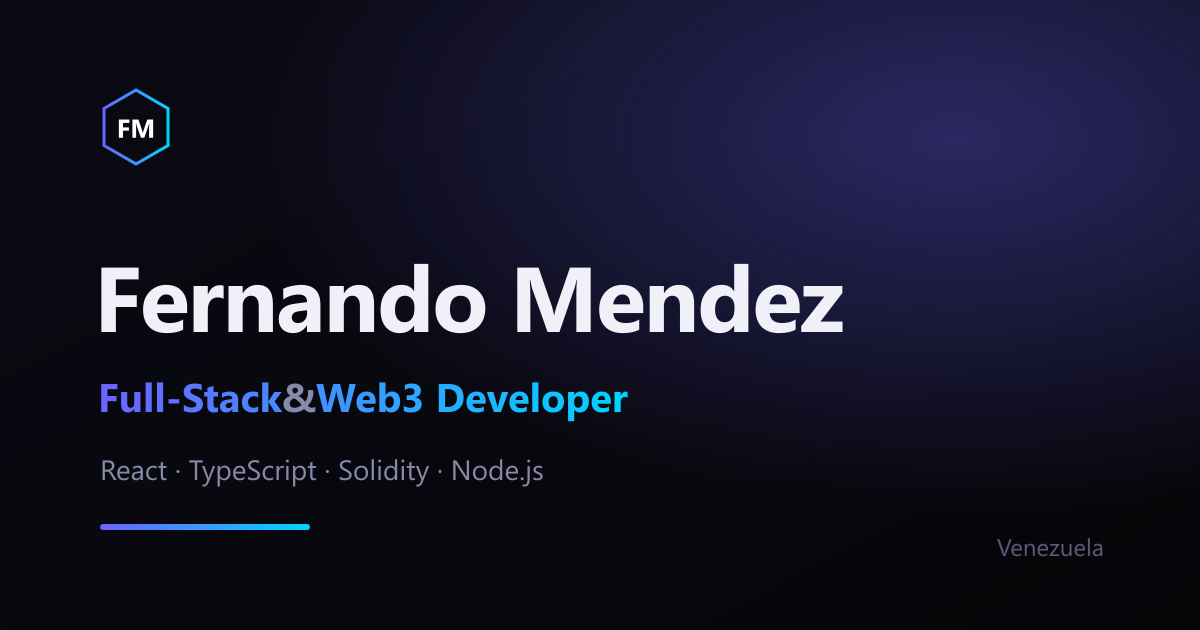
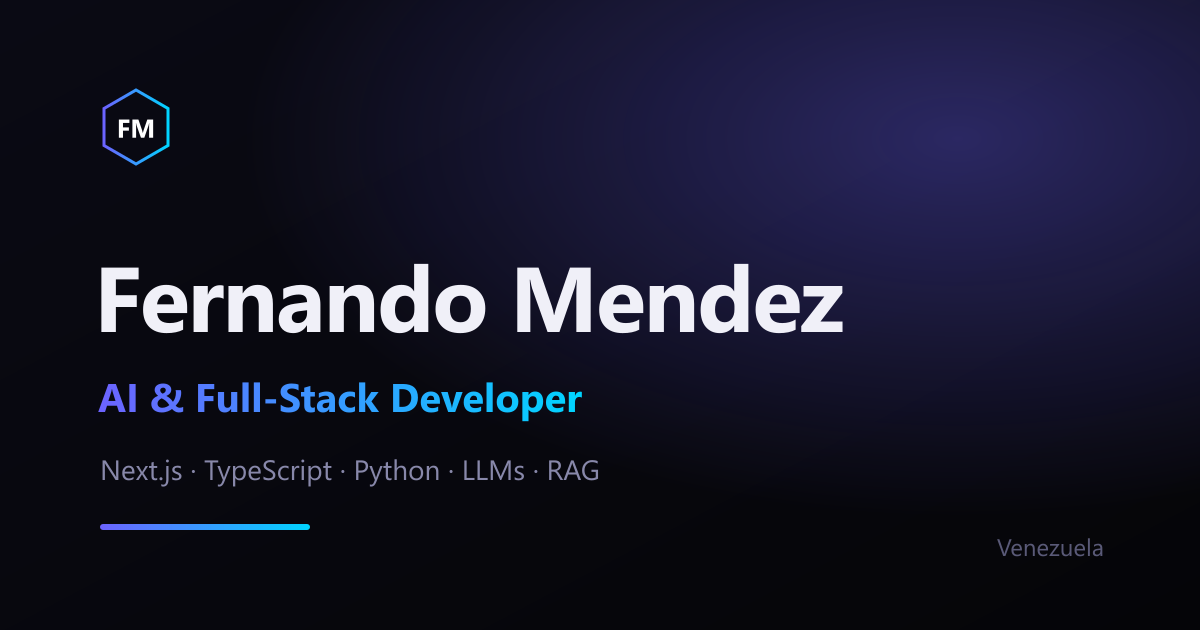
Reposition portfolio around AI & automation
Lead with AI/LLM work over Web3 to match current focus: rewrite hero, about, and skills (AI & LLM Apps now first, Web3 de-emphasized); replace projects with FPY Academy (RAG LMS), ContentFlow (AI pipeline), Collab Map, and STRATA; refresh SEO/OG/Twitter/JSON-LD metadata and the social card; fill the real LinkedIn handle (wf-mendez); extend BYU graduation to Dec 2027; bump stats.

Changed region(s): [[0.0617, 0.6032, 0.5242, 0.6635], [0.0925, 0.7238, 0.4933, 0.7841]]

diff --git a/index.html b/index.html
@@ -5,10 +5,10 @@
   <meta name="viewport" content="width=device-width, initial-scale=1.0" />
 
   <!-- Primary meta -->
-  <title>Fernando Mendez — Full Stack &amp; Web3 Developer</title>
-  <meta name="description" content="Fernando Mendez — Full Stack Developer building modern web apps and decentralized applications with React, TypeScript, and Solidity. Based in Venezuela." />
+  <title>Fernando Mendez — AI &amp; Full-Stack Developer</title>
+  <meta name="description" content="Fernando Mendez — Full-Stack Developer building AI-powered apps: LLM chatbots, RAG systems, and automation pipelines with Next.js, TypeScript, and Python. Based in Venezuela." />
   <meta name="author" content="Fernando Mendez" />
-  <meta name="keywords" content="Fernando Mendez, Full Stack Developer, Web3 Developer, React, TypeScript, Solidity, Blockchain, Ethereum, Polygon, Node.js, Venezuela" />
+  <meta name="keywords" content="Fernando Mendez, AI Developer, Full Stack Developer, LLM, RAG, Chatbots, AI Agents, Automation, n8n, Next.js, TypeScript, Python, React, Node.js, Venezuela" />
   <!-- TODO: replace your-domain.com with your real domain -->
   <link rel="canonical" href="https://your-domain.com/" />
   <meta name="theme-color" content="#050508" />
@@ -17,19 +17,19 @@
   <!-- Open Graph (Facebook, LinkedIn, WhatsApp) -->
   <meta property="og:type" content="website" />
   <meta property="og:site_name" content="Fernando Mendez" />
-  <meta property="og:title" content="Fernando Mendez — Full Stack &amp; Web3 Developer" />
-  <meta property="og:description" content="Building modern web apps and decentralized applications with React, TypeScript, and Solidity." />
+  <meta property="og:title" content="Fernando Mendez — AI &amp; Full-Stack Developer" />
+  <meta property="og:description" content="Building AI-powered apps — LLM chatbots, RAG systems, and automation pipelines with Next.js, TypeScript &amp; Python." />
   <meta property="og:url" content="https://your-domain.com/" />
   <meta property="og:image" content="https://your-domain.com/assets/og-image.png" />
   <meta property="og:image:width" content="1200" />
   <meta property="og:image:height" content="630" />
-  <meta property="og:image:alt" content="Fernando Mendez — Full-Stack &amp; Web3 Developer" />
+  <meta property="og:image:alt" content="Fernando Mendez — AI &amp; Full-Stack Developer" />
   <meta property="og:locale" content="en_US" />
 
   <!-- Twitter / X -->
   <meta name="twitter:card" content="summary_large_image" />
-  <meta name="twitter:title" content="Fernando Mendez — Full Stack &amp; Web3 Developer" />
-  <meta name="twitter:description" content="Building modern web apps and decentralized applications with React, TypeScript, and Solidity." />
+  <meta name="twitter:title" content="Fernando Mendez — AI &amp; Full-Stack Developer" />
+  <meta name="twitter:description" content="Building AI-powered apps — LLM chatbots, RAG systems, and automation pipelines with Next.js, TypeScript &amp; Python." />
   <meta name="twitter:image" content="https://your-domain.com/assets/og-image.png" />
 
   <!-- Icons -->
@@ -49,7 +49,7 @@
     "@context": "https://schema.org",
     "@type": "Person",
     "name": "Fernando Mendez",
-    "jobTitle": "Full Stack & Web3 Developer",
+    "jobTitle": "AI & Full-Stack Developer",
     "url": "https://your-domain.com/",
     "image": "https://your-domain.com/assets/og-image.png",
     "email": "mailto:wuillian.f.mendez@gmail.com",
@@ -61,10 +61,10 @@
       "@type": "CollegeOrUniversity",
       "name": "Brigham Young University–Idaho"
     },
-    "knowsAbout": ["React", "TypeScript", "Solidity", "Web3", "Node.js", "Smart Contracts", "Ethereum", "Polygon"],
+    "knowsAbout": ["Artificial Intelligence", "Large Language Models", "RAG", "Chatbots", "AI Agents", "Automation", "Next.js", "TypeScript", "React", "Node.js", "Python", "Web3"],
     "sameAs": [
       "https://github.com/wfmendez",
-      "https://www.linkedin.com/in/your-linkedin"
+      "https://www.linkedin.com/in/wf-mendez"
     ]
   }
   </script>
@@ -141,12 +141,12 @@
       <h1 class="hero-title">
         <span class="title-line" data-text="Fernando">Fernando</span>
         <span class="title-line gradient-text" data-text="Mendez">Mendez</span>
-        <span class="title-line" data-text="— Builds the Web.">— Builds the Web.</span>
+        <span class="title-line" data-text="— Builds with AI.">— Builds with AI.</span>
       </h1>
       <p class="hero-subtitle">
-        Full-Stack Developer specialised in <em>React, TypeScript &amp; Web3</em> —
-        crafting modern web apps and decentralised applications from
-        Venezuela.
+        Full-Stack Developer specialised in <em>AI-powered apps</em> —
+        building LLM chatbots, RAG systems &amp; automation pipelines with
+        React, TypeScript &amp; Next.js, from Venezuela.
       </p>
       <div class="hero-actions">
         <a href="#projects" class="btn btn-primary magnetic">
@@ -160,9 +160,9 @@
       <div class="hero-stats">
         <div class="stat"><span class="stat-num" data-target="4">0</span><span class="stat-label">Years Building Web</span></div>
         <div class="stat-divider"></div>
-        <div class="stat"><span class="stat-num" data-target="3">0</span><span class="stat-label">Web3 dApps Shipped</span></div>
+        <div class="stat"><span class="stat-num" data-target="4">0</span><span class="stat-label">AI Apps Shipped</span></div>
         <div class="stat-divider"></div>
-        <div class="stat"><span class="stat-num" data-target="7">0</span><span class="stat-label">Certifications Earned</span></div>
+        <div class="stat"><span class="stat-num" data-target="12">0</span><span class="stat-label">Certifications Earned</span></div>
       </div>
     </div>
     <div class="hero-scroll-indicator">
@@ -180,25 +180,27 @@
             <div class="about-image-placeholder">
               <canvas id="about-canvas"></canvas>
             </div>
-            <div class="about-tag tag-1">React + TypeScript</div>
-            <div class="about-tag tag-2">Solidity / Web3</div>
-            <div class="about-tag tag-3">Node.js</div>
+            <div class="about-tag tag-1">AI · RAG · LLMs</div>
+            <div class="about-tag tag-2">Next.js + TypeScript</div>
+            <div class="about-tag tag-3">Python · Automation</div>
           </div>
         </div>
         <div class="about-text">
           <span class="section-label reveal-up">About Me</span>
           <h2 class="section-title reveal-up">
-            From idea to <span class="gradient-text">on-chain reality</span>
+            From idea to <span class="gradient-text">AI-powered products</span>
           </h2>
           <p class="about-body reveal-up">
             I'm a Full-Stack Developer pursuing a Bachelor of Software Development at
-            BYU-Idaho, with three years of freelance experience translating Figma designs
-            into clean, performant React and TypeScript code.
+            BYU-Idaho. I build production AI applications — LLM-powered chatbots, RAG
+            systems, and content pipelines — turning models like Llama 3.3 and Claude
+            into products people actually use.
           </p>
           <p class="about-body reveal-up">
-            Lately I've been deep in Web3 — building decentralised applications on
-            Ethereum and Polygon with Solidity, Hardhat, Wagmi and Ethers.js. I love
-            turning blockchain complexity into experiences anyone can use.
+            I also architect automation ecosystems — n8n, custom AI agents, and API
+            integrations that replace manual ops with self-running infrastructure. My
+            stack centers on Next.js, TypeScript and Python, backed by PostgreSQL and
+            Supabase — and yes, I've shipped on-chain too.
           </p>
           <div class="about-signature reveal-up">
             <svg viewBox="0 0 160 50" fill="none" class="signature-svg">
@@ -230,26 +232,26 @@
           <div class="skill-icon">
             <svg viewBox="0 0 40 40" fill="none"><circle cx="20" cy="20" r="18" stroke="#6C63FF" stroke-width="1.5"/><path d="M13 14l-5 6 5 6M27 14l5 6-5 6M22 12l-4 16" stroke="white" stroke-width="1.8" stroke-linecap="round"/></svg>
           </div>
-          <h3>Frontend</h3>
-          <p>React, TypeScript, Vite, HTML5, CSS3, Figma-to-code</p>
-          <div class="skill-bar"><div class="skill-fill" data-width="92"></div></div>
+          <h3>AI &amp; LLM Apps</h3>
+          <p>RAG, chatbots, prompt engineering · Llama 3.3, Claude, Gemini, Groq, Vercel AI SDK</p>
+          <div class="skill-bar"><div class="skill-fill" data-width="93"></div></div>
         </div>
         <!-- Backend -->
         <div class="skill-card reveal-up" data-delay="100">
           <div class="skill-icon">
             <svg viewBox="0 0 40 40" fill="none"><rect x="4" y="4" width="32" height="32" rx="8" stroke="#00D4FF" stroke-width="1.5"/><path d="M12 16h16M12 20h10M12 24h13" stroke="white" stroke-width="1.8" stroke-linecap="round"/></svg>
           </div>
-          <h3>Backend</h3>
-          <p>Node.js, Express.js, REST APIs, MongoDB, Python</p>
-          <div class="skill-bar"><div class="skill-fill" data-width="85"></div></div>
+          <h3>Frontend</h3>
+          <p>React, Next.js, TypeScript, Vite, Tailwind CSS, Figma-to-code</p>
+          <div class="skill-bar"><div class="skill-fill" data-width="90"></div></div>
         </div>
         <!-- 3D / Creative -->
         <div class="skill-card reveal-up" data-delay="200">
           <div class="skill-icon">
             <svg viewBox="0 0 40 40" fill="none"><polygon points="20,4 36,12 36,28 20,36 4,28 4,12" stroke="#FF6B9D" stroke-width="1.5"/><polygon points="20,12 28,16 28,24 20,28 12,24 12,16" stroke="#FF6B9D" stroke-width="1" opacity="0.5"/></svg>
           </div>
-          <h3>Web3 &amp; Blockchain</h3>
-          <p>Solidity, Hardhat, Ethers.js, Wagmi, Alchemy API</p>
+          <h3>Backend &amp; APIs</h3>
+          <p>Node.js, FastAPI, Express, Prisma, PostgreSQL, Supabase, MongoDB</p>
           <div class="skill-bar"><div class="skill-fill" data-width="88"></div></div>
         </div>
         <!-- DevOps -->
@@ -257,26 +259,26 @@
           <div class="skill-icon">
             <svg viewBox="0 0 40 40" fill="none"><circle cx="20" cy="20" r="10" stroke="#FFB347" stroke-width="1.5"/><path d="M20 4v4M20 32v4M4 20h4M32 20h4" stroke="#FFB347" stroke-width="1.8" stroke-linecap="round"/></svg>
           </div>
-          <h3>Tools &amp; Deploy</h3>
-          <p>Git, GitHub, Render.com, Cloudinary, MongoDB Atlas</p>
-          <div class="skill-bar"><div class="skill-fill" data-width="82"></div></div>
+          <h3>Automation &amp; Integration</h3>
+          <p>n8n, AI agents, REST APIs, Airtable, Celery, webhooks</p>
+          <div class="skill-bar"><div class="skill-fill" data-width="88"></div></div>
         </div>
         <!-- Design -->
         <div class="skill-card reveal-up" data-delay="400">
           <div class="skill-icon">
             <svg viewBox="0 0 40 40" fill="none"><path d="M8 32 Q16 8 20 8 Q24 8 32 32" stroke="#A855F7" stroke-width="1.5" fill="none"/><circle cx="20" cy="20" r="3" fill="#A855F7"/></svg>
           </div>
-          <h3>UI / UX Design</h3>
-          <p>Figma, Wireframing, Prototyping, Responsive design</p>
-          <div class="skill-bar"><div class="skill-fill" data-width="80"></div></div>
+          <h3>Web3 &amp; Blockchain</h3>
+          <p>Solidity, Hardhat, Ethers.js, viem, Wagmi</p>
+          <div class="skill-bar"><div class="skill-fill" data-width="72"></div></div>
         </div>
         <!-- AI -->
         <div class="skill-card reveal-up" data-delay="500">
           <div class="skill-icon">
             <svg viewBox="0 0 40 40" fill="none"><circle cx="20" cy="20" r="6" fill="none" stroke="#00FFB2" stroke-width="1.5"/><path d="M20 4L20 14M20 26L20 36M4 20L14 20M26 20L36 20M8 8L15 15M25 25L32 32M32 8L25 15M15 25L8 32" stroke="#00FFB2" stroke-width="1.5" stroke-linecap="round"/></svg>
           </div>
-          <h3>Languages &amp; Soft Skills</h3>
-          <p>JavaScript, TypeScript, Python, Solidity · EN/ES bilingual</p>
+          <h3>Languages &amp; Tools</h3>
+          <p>TypeScript, Python, JavaScript, Solidity · Git, Docker, Vercel · EN/ES bilingual</p>
           <div class="skill-bar"><div class="skill-fill" data-width="90"></div></div>
         </div>
       </div>
@@ -297,21 +299,18 @@
         <article class="project-card reveal-up" data-index="01">
           <div class="project-meta">
             <span class="project-number">01</span>
-            <span class="project-year">2025</span>
+            <span class="project-year">2026</span>
           </div>
           <div class="project-content">
             <div class="project-tags">
-              <span>React</span><span>TypeScript</span><span>Wagmi</span><span>Ethers.js</span>
+              <span>Next.js 15</span><span>TypeScript</span><span>Groq</span><span>Llama 3.3</span><span>RAG</span>
             </div>
-            <h3 class="project-title">Hey, View my NFTs!</h3>
-            <p class="project-desc">A dApp on Ethereum mainnet for browsing any wallet's NFT collection. Built with React + TypeScript + Vite, integrating Wagmi for wallet connections and the Alchemy API for efficient NFT metadata retrieval. React Query keeps state synchronised with the chain.</p>
+            <h3 class="project-title">FPY Academy — AI Learning Platform</h3>
+            <p class="project-desc">A full-stack LMS shipped to production at fpyacademy.com. Every lesson includes a context-aware AI tutor (Llama 3.3 70B via Groq) that grounds its answers in the live lesson content — a lightweight RAG pattern, streamed token-by-token with the Vercel AI SDK. Plus a course builder, quiz engine, role-based access, and PDF-exportable learning plans. 100+ commits.</p>
             <div class="project-links">
-              <a href="https://REPLACE-WITH-LIVE-DEMO-1.com" target="_blank" rel="noopener noreferrer" class="project-link magnetic">
-                <span>View Case Study</span>
+              <a href="https://fpyacademy.com" target="_blank" rel="noopener noreferrer" class="project-link magnetic">
+                <span>Visit Live</span>
                 <svg viewBox="0 0 24 24" fill="none" stroke="currentColor" stroke-width="2"><path d="M5 12h14M12 5l7 7-7 7"/></svg>
-              </a>
-              <a href="https://github.com/wfmendez/REPLACE-WITH-REPO-1" target="_blank" rel="noopener noreferrer" class="project-link-icon magnetic" title="GitHub">
-                <svg viewBox="0 0 24 24" fill="currentColor"><path d="M12 2A10 10 0 002 12c0 4.42 2.87 8.17 6.84 9.5.5.08.66-.23.66-.5v-1.69c-2.77.6-3.36-1.34-3.36-1.34-.46-1.16-1.11-1.47-1.11-1.47-.91-.62.07-.6.07-.6 1 .07 1.53 1.03 1.53 1.03.87 1.52 2.34 1.07 2.91.83.09-.65.35-1.09.63-1.34-2.22-.25-4.55-1.11-4.55-4.92 0-1.11.38-2 1.03-2.71-.1-.25-.45-1.29.1-2.64 0 0 .84-.27 2.75 1.02.79-.22 1.65-.33 2.5-.33.85 0 1.71.11 2.5.33 1.91-1.29 2.75-1.02 2.75-1.02.55 1.35.2 2.39.1 2.64.65.71 1.03 1.6 1.03 2.71 0 3.82-2.34 4.66-4.57 4.91.36.31.69.92.69 1.85V21c0 .27.16.59.67.5C19.14 20.16 22 16.42 22 12A10 10 0 0012 2z"/></svg>
               </a>
             </div>
           </div>
@@ -326,21 +325,18 @@
         <article class="project-card reveal-up" data-index="02">
           <div class="project-meta">
             <span class="project-number">02</span>
-            <span class="project-year">2025</span>
+            <span class="project-year">2026</span>
           </div>
           <div class="project-content">
             <div class="project-tags">
-              <span>React</span><span>Node.js</span><span>Express</span><span>MongoDB</span>
+              <span>FastAPI</span><span>Celery</span><span>Gemini</span><span>Llama 3.3</span><span>React</span>
             </div>
-            <h3 class="project-title">Adorable Turtles</h3>
-            <p class="project-desc">A full-stack web app focused on real-time data handling. React frontend with component-based architecture, RESTful API on Node.js + Express + MongoDB Atlas, image optimisation via Cloudinary, deployed on Render.com.</p>
+            <h3 class="project-title">ContentFlow — AI Content Pipeline</h3>
+            <p class="project-desc">An open-source SaaS that automates the entire content cycle: it monitors RSS feeds and Reddit every 6 hours, scores trending topics with AI (Gemini 1.5 Flash + Groq Llama 3.3), and drafts LinkedIn posts, blogs, and newsletters for human review. Per-draft AI transparency — tokens, cost, and prompt used — at roughly $0.001 per trend. End-to-end tested with Playwright.</p>
             <div class="project-links">
-              <a href="https://REPLACE-WITH-LIVE-DEMO-2.com" target="_blank" rel="noopener noreferrer" class="project-link magnetic">
-                <span>View Case Study</span>
+              <a href="https://github.com/wfmendez/REPLACE-WITH-CONTENTFLOW-REPO" target="_blank" rel="noopener noreferrer" class="project-link magnetic">
+                <span>View Code</span>
                 <svg viewBox="0 0 24 24" fill="none" stroke="currentColor" stroke-width="2"><path d="M5 12h14M12 5l7 7-7 7"/></svg>
-              </a>
-              <a href="https://github.com/wfmendez/REPLACE-WITH-REPO-2" target="_blank" rel="noopener noreferrer" class="project-link-icon magnetic" title="GitHub">
-                <svg viewBox="0 0 24 24" fill="currentColor"><path d="M12 2A10 10 0 002 12c0 4.42 2.87 8.17 6.84 9.5.5.08.66-.23.66-.5v-1.69c-2.77.6-3.36-1.34-3.36-1.34-.46-1.16-1.11-1.47-1.11-1.47-.91-.62.07-.6.07-.6 1 .07 1.53 1.03 1.53 1.03.87 1.52 2.34 1.07 2.91.83.09-.65.35-1.09.63-1.34-2.22-.25-4.55-1.11-4.55-4.92 0-1.11.38-2 1.03-2.71-.1-.25-.45-1.29.1-2.64 0 0 .84-.27 2.75 1.02.79-.22 1.65-.33 2.5-.33.85 0 1.71.11 2.5.33 1.91-1.29 2.75-1.02 2.75-1.02.55 1.35.2 2.39.1 2.64.65.71 1.03 1.6 1.03 2.71 0 3.82-2.34 4.66-4.57 4.91.36.31.69.92.69 1.85V21c0 .27.16.59.67.5C19.14 20.16 22 16.42 22 12A10 10 0 0012 2z"/></svg>
               </a>
             </div>
           </div>
@@ -355,27 +351,50 @@
         <article class="project-card reveal-up" data-index="03">
           <div class="project-meta">
             <span class="project-number">03</span>
-            <span class="project-year">2025</span>
+            <span class="project-year">2026</span>
           </div>
           <div class="project-content">
             <div class="project-tags">
-              <span>Solidity</span><span>Hardhat</span><span>Polygon</span>
+              <span>Next.js</span><span>TypeScript</span><span>Supabase</span><span>PostGIS</span><span>Google Maps</span>
             </div>
-            <h3 class="project-title">DONA-POL</h3>
-            <p class="project-desc">A donation dApp on the Polygon network bringing transparency to charitable giving. Smart contracts written in Solidity to manage secure donation flows, developed and tested locally with Hardhat before mainnet deployment.</p>
+            <h3 class="project-title">Collab Map — Field-Sales Platform</h3>
+            <p class="project-desc">An end-to-end operations platform coordinating field reps across 3,000+ retail stores. Unifies three Airtable bases and Supabase (PostGIS) into one real-time map dashboard with a route optimizer (NN → 2-opt → 3-opt), Kalman-smoothed GPS check-ins, and in-app turn-by-turn navigation. Result: reps log visits 4× faster. Built at Collab Collective Studio.</p>
             <div class="project-links">
-              <a href="https://REPLACE-WITH-LIVE-DEMO-3.com" target="_blank" rel="noopener noreferrer" class="project-link magnetic">
-                <span>View Case Study</span>
+              <span class="project-link" style="color:var(--text-muted);cursor:default">Private · Collab Collective Studio</span>
+            </div>
+          </div>
+          <div class="project-visual">
+            <div class="project-canvas-wrap">
+              <canvas class="project-canvas" data-project="2"></canvas>
+            </div>
+          </div>
+        </article>
+
+        <!-- Project 4 -->
+        <article class="project-card reveal-up" data-index="04">
+          <div class="project-meta">
+            <span class="project-number">04</span>
+            <span class="project-year">2026</span>
+          </div>
+          <div class="project-content">
+            <div class="project-tags">
+              <span>Next.js 14</span><span>TypeScript</span><span>Prisma</span><span>viem</span><span>SIWE</span>
+            </div>
+            <h3 class="project-title">STRATA — SocialFi Platform</h3>
+            <p class="project-desc">A "Twitter for on-chain real estate" where investors post tokenized property deals and earn DeFi yield. Engineered for scale and security: Fan-Out-on-Write feeds (500-post materialized timelines), Sign-In with Ethereum with replay protection, HMAC-signed sessions, CSRF middleware, and CSP hardening — all covered by 29 Vitest tests.</p>
+            <div class="project-links">
+              <a href="https://github.com/wfmendez/strata" target="_blank" rel="noopener noreferrer" class="project-link magnetic">
+                <span>View Code</span>
                 <svg viewBox="0 0 24 24" fill="none" stroke="currentColor" stroke-width="2"><path d="M5 12h14M12 5l7 7-7 7"/></svg>
               </a>
-              <a href="https://github.com/wfmendez/REPLACE-WITH-REPO-3" target="_blank" rel="noopener noreferrer" class="project-link-icon magnetic" title="GitHub">
+              <a href="https://github.com/wfmendez/strata" target="_blank" rel="noopener noreferrer" class="project-link-icon magnetic" title="GitHub">
                 <svg viewBox="0 0 24 24" fill="currentColor"><path d="M12 2A10 10 0 002 12c0 4.42 2.87 8.17 6.84 9.5.5.08.66-.23.66-.5v-1.69c-2.77.6-3.36-1.34-3.36-1.34-.46-1.16-1.11-1.47-1.11-1.47-.91-.62.07-.6.07-.6 1 .07 1.53 1.03 1.53 1.03.87 1.52 2.34 1.07 2.91.83.09-.65.35-1.09.63-1.34-2.22-.25-4.55-1.11-4.55-4.92 0-1.11.38-2 1.03-2.71-.1-.25-.45-1.29.1-2.64 0 0 .84-.27 2.75 1.02.79-.22 1.65-.33 2.5-.33.85 0 1.71.11 2.5.33 1.91-1.29 2.75-1.02 2.75-1.02.55 1.35.2 2.39.1 2.64.65.71 1.03 1.6 1.03 2.71 0 3.82-2.34 4.66-4.57 4.91.36.31.69.92.69 1.85V21c0 .27.16.59.67.5C19.14 20.16 22 16.42 22 12A10 10 0 0012 2z"/></svg>
               </a>
             </div>
           </div>
           <div class="project-visual">
             <div class="project-canvas-wrap">
-              <canvas class="project-canvas" data-project="2"></canvas>
+              <canvas class="project-canvas" data-project="3"></canvas>
             </div>
           </div>
         </article>
@@ -481,7 +500,7 @@
         <div class="timeline-item reveal-up" data-side="right">
           <div class="timeline-dot"></div>
           <div class="timeline-card">
-            <span class="timeline-period">Jan 2022 — Present</span>
+            <span class="timeline-period">Jan 2022 — Dec 2027</span>
             <h3>B.S. in Software Development</h3>
             <span class="timeline-company">Brigham Young University–Idaho</span>
             <p>Software engineering principles, OOP, and full-stack design — frontend, backend, and database management. Complemented by 7 industry certifications including Web3 Masterclass and Prompt Engineering Bootcamp (Zero To Mastery).</p>
@@ -501,9 +520,9 @@
         <div class="contact-text">
           <span class="section-label reveal-up">Contact</span>
           <h2 class="section-title reveal-up">
-            Let's build<br>something <span class="gradient-text">on-chain.</span>
+            Let's build<br>something <span class="gradient-text">intelligent.</span>
           </h2>
-          <p class="reveal-up">Open to freelance work, remote full-time roles, and Web3 collaborations. Reach out — I respond within 24 hours.</p>
+          <p class="reveal-up">Open to freelance work, remote full-time roles, and AI &amp; automation projects. Reach out — I respond within 24 hours.</p>
           <div class="contact-links reveal-up">
             <a href="mailto:wuillian.f.mendez@gmail.com" class="contact-link">
               <svg viewBox="0 0 24 24" fill="none" stroke="currentColor" stroke-width="2"><path d="M4 4h16c1.1 0 2 .9 2 2v12c0 1.1-.9 2-2 2H4c-1.1 0-2-.9-2-2V6c0-1.1.9-2 2-2z"/><polyline points="22,6 12,13 2,6"/></svg>
@@ -513,7 +532,7 @@
               <svg viewBox="0 0 24 24" fill="none" stroke="currentColor" stroke-width="2"><path d="M22 16.92v3a2 2 0 01-2.18 2 19.79 19.79 0 01-8.63-3.07 19.5 19.5 0 01-6-6 19.79 19.79 0 01-3.07-8.67A2 2 0 014.11 2h3a2 2 0 012 1.72 12.84 12.84 0 00.7 2.81 2 2 0 01-.45 2.11L8.09 9.91a16 16 0 006 6l1.27-1.27a2 2 0 012.11-.45 12.84 12.84 0 002.81.7A2 2 0 0122 16.92z"/></svg>
               +58 414 489 6306
             </a>
-            <a href="https://www.linkedin.com/in/your-linkedin" target="_blank" rel="noopener noreferrer" class="contact-link">
+            <a href="https://www.linkedin.com/in/wf-mendez" target="_blank" rel="noopener noreferrer" class="contact-link">
               <svg viewBox="0 0 24 24" fill="currentColor"><path d="M20.447 20.452h-3.554v-5.569c0-1.328-.027-3.037-1.852-3.037-1.853 0-2.136 1.445-2.136 2.939v5.667H9.351V9h3.414v1.561h.046c.477-.9 1.637-1.85 3.37-1.85 3.601 0 4.267 2.37 4.267 5.455v6.286zM5.337 7.433a2.062 2.062 0 01-2.063-2.065 2.064 2.064 0 112.063 2.065zm1.782 13.019H3.555V9h3.564v11.452zM22.225 0H1.771C.792 0 0 .774 0 1.729v20.542C0 23.227.792 24 1.771 24h20.451C23.2 24 24 23.227 24 22.271V1.729C24 .774 23.2 0 22.222 0h.003z"/></svg>
               LinkedIn
             </a>
